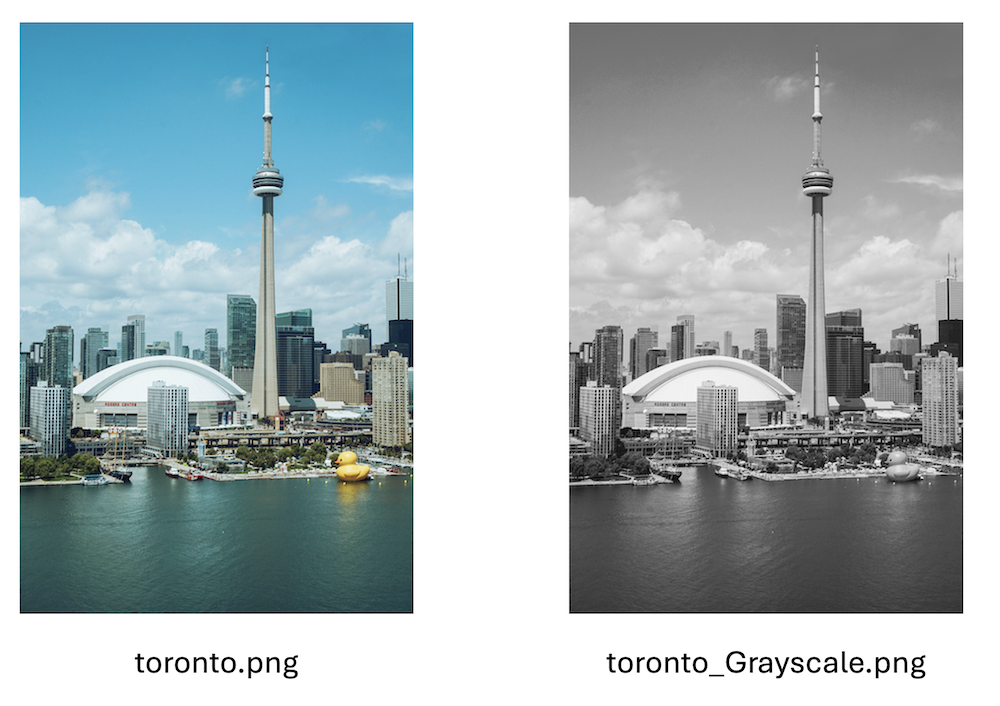
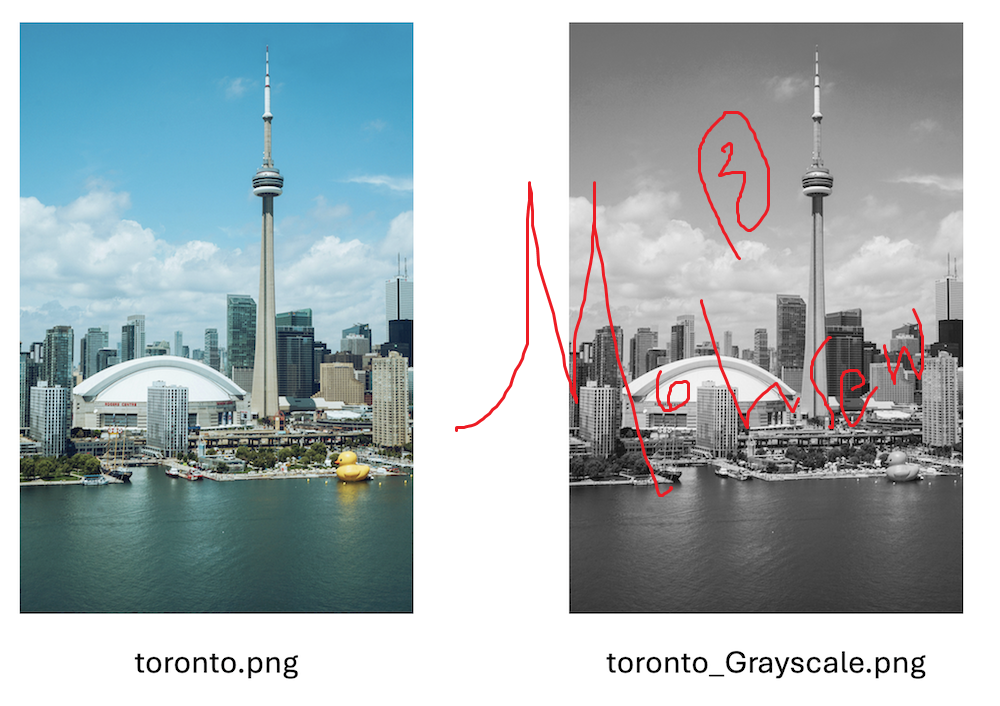
doing the grayscale for all the pixels: GrayScale is done!

diff --git a/src/Grayscale.java b/src/Grayscale.java
@@ -2,23 +2,23 @@ import java.awt.image.BufferedImage;
 
 public class Grayscale extends Converter {
     @Override
-    public BufferedImage specificConvert(BufferedImage original) {
-        int width = original.getWidth();
-        int height = original.getHeight();
-        int pixel = original.getRGB(151, 102);
-        ARGB pixelARGB = new ARGB(pixel);
-        int alpha = pixelARGB.alpha;
-        int red = pixelARGB.red;
-        int green = pixelARGB.green;
-        int blue = pixelARGB.blue;
-        System.out.println("Alpha: " + pixelARGB.alpha + ", Red: " + pixelARGB.red + ", Green: " + pixelARGB.green + ", Blue: " + pixelARGB.blue);
-        int gray = (red + green + blue) / 3;
-        pixelARGB = new ARGB(alpha, gray, gray, gray);
-        pixel = pixelARGB.toInt();
-        original.setRGB(151, 102, pixel);
-        int newPixel = original.getRGB(151, 102);
-        ARGB newColor = new ARGB(newPixel);
-        System.out.println("Alpha: " + newColor.alpha + ", Red: " + newColor.red + ", Green: " + newColor.green + ", Blue: " + newColor.blue);
-        return original;
+    public BufferedImage specificConvert(BufferedImage image) {
+        int width = image.getWidth();
+        int height = image.getHeight();
+        for (int i = 0; i < width; i++) {
+            for (int j = 0; j < height; j++) {
+                int pixelInt = image.getRGB(i, j);
+                ARGB pixelARGB = new ARGB(pixelInt);
+                int alpha = pixelARGB.alpha;
+                int red = pixelARGB.red;
+                int green = pixelARGB.green;
+                int blue = pixelARGB.blue;
+                int gray = (red + green + blue) / 3;
+                pixelARGB = new ARGB(alpha, gray, gray, gray);
+                pixelInt = pixelARGB.toInt();
+                image.setRGB(i, j, pixelInt);
+            }
+        }
+        return image;
     }
 }
